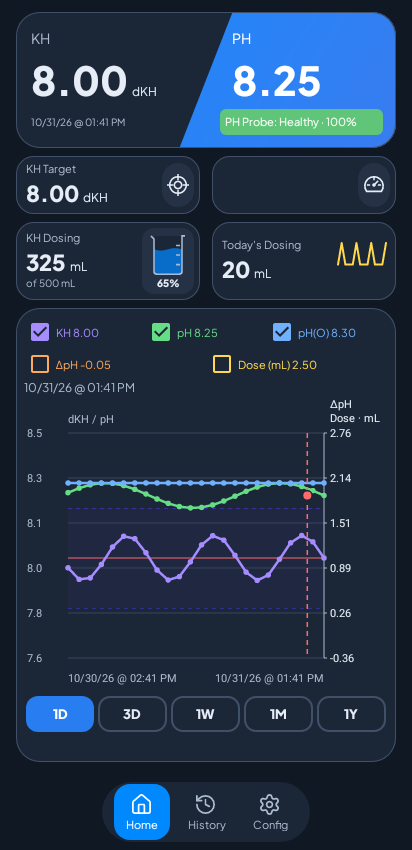
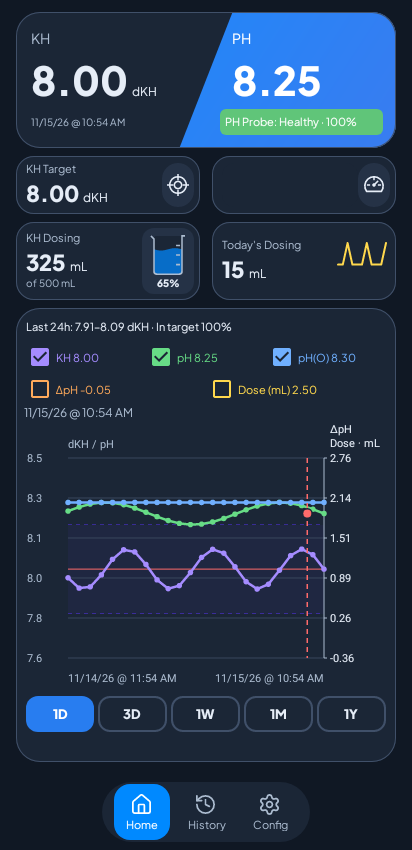
Release v0.8.23: compact 24-hour KH summary

diff --git a/README.md b/README.md
@@ -233,8 +233,8 @@ The repository must be **public** and have at least one published GitHub Release
 Every installable release must increment:
 
 ```kotlin
-versionCode = 35
-versionName = "0.8.22"
+versionCode = 36
+versionName = "0.8.23"
 ```
 
 Future releases must use the **same Android signing key**. Otherwise Android will reject the new APK as an update to the installed app.
@@ -404,3 +404,7 @@ Signed diagnostic prerelease for reproducing settings and session failures. Conf
 Includes the controller settings label fix:
 
 - Fix blank KH Target, dosing settings, and probe health when the device-scoped settings response uses a tank name in `serial`. Preserve explicit controller-ID checks and reject ambiguous responses.
+
+## 0.8.23 Compact chart summary
+
+A single line above the graph shows the last 24 hours’ saved KH range and the percentage of readings within the controller’s current target bounds. The window remains 24 hours when changing chart ranges. Today’s dosing stays in its existing hero card. Calculations use locally retained raw measurements, with no extra server requests. Missing readings or target bounds show as unavailable. The summary supports light/dark mode and wraps with larger accessibility text.

diff --git a/docs/releases/v0.8.23.md b/docs/releases/v0.8.23.md
@@ -1,0 +1,23 @@
+## Compact 24-hour KH summary
+
+A single line above the chart shows the saved KH range and percentage of readings within the controller’s current target bounds:
+
+**Last 24h: 8.22–8.72 dKH · In target 100%**
+
+- Always uses a rolling 24-hour window, independently of the selected chart range.
+- Uses locally retained raw readings, without additional server requests. The percentage counts readings within the current target bounds.
+- Shows unavailable values when readings or target bounds are missing.
+- Supports light/dark mode and allows larger accessibility text to wrap.
+- Today’s dosing remains in the hero area.
+
+## Screenshots
+
+Current app views rendered with sample data.
+
+| Light | Dark |
+| --- | --- |
+| ![Light dashboard](https://raw.githubusercontent.com/stevestokes/AquaWizNotificationsApp/v0.8.23/docs/screenshots/home.png) | ![Dark dashboard](https://raw.githubusercontent.com/stevestokes/AquaWizNotificationsApp/v0.8.23/docs/screenshots/home-dark.png) |
+
+## Install
+
+Download **AquaWizNotifier.apk** and install over your current signed app. This update uses the existing signing key and preserves local history and preferences.
